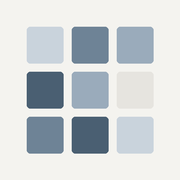
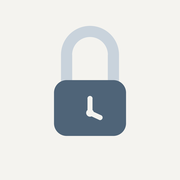
Add files via upload

diff --git a/index.html b/index.html
@@ -2,7 +2,7 @@
 <html lang="en">
 <head>
 <meta charset="utf-8">
-<meta name="viewport" content="width=device-width, initial-scale=1, viewport-fit=cover">
+<meta name="viewport" content="width=device-width, initial-scale=1, maximum-scale=1, user-scalable=no, viewport-fit=cover">
 <meta name="apple-mobile-web-app-capable" content="yes">
 <meta name="mobile-web-app-capable" content="yes">
 <meta name="apple-mobile-web-app-status-bar-style" content="default">
@@ -53,7 +53,8 @@
     color-scheme: dark;
   }
 
-  html, body { height: 100%; }
+  html, body { height: 100%; touch-action: manipulation; }
+  *, button { touch-action: manipulation; }
   body {
     background: var(--bg);
     color: var(--fg);
@@ -87,8 +88,13 @@
   }
   .clock.dim { color: var(--muted); }
   .clock.small { font-size: clamp(56px, 17vw, 76px); }
-  .breakdown { display: flex; gap: 16px; font-size: 13px; color: var(--muted); font-variant-numeric: tabular-nums; min-height: 1.3em; }
-  .breakdown span { display: inline-flex; align-items: center; gap: 6px; }
+  .breakdown { display: flex; flex-direction: column; align-items: center; gap: 6px; margin-top: 10px; font-size: 14px; color: var(--muted); font-variant-numeric: tabular-nums; min-height: 1.3em; }
+  .breakdown .line { display: grid; grid-template-columns: 8px 3.4em 4.6em 4.2em; align-items: center; column-gap: 10px; }
+  .breakdown .line .t { text-align: left; }
+  .breakdown .line .dur { color: var(--fg); text-align: right; }
+  .breakdown .line .cat { text-align: left; }
+  .breakdown .empty { font-size: 13px; }
+  .breakdown .more { font-size: 12px; }
 
   .dot { width: 8px; height: 8px; border-radius: 50%; display: inline-block; flex: none; }
   .dot.prosing { background: var(--prosing); }
@@ -121,18 +127,28 @@
   .act.primary { background: var(--accent); color: var(--on-accent); }
   .act.primary.prosing { background: var(--prosing); color: #fff; }
   .act.primary.working { background: var(--working); color: #fff; }
-  .act:active { opacity: .7; }
+  .act, .chipbtn, .round, .syncrow { transition: transform .14s ease, opacity .14s ease, background-color .2s ease, color .2s ease; }
+  .act:active, .chipbtn:active { transform: scale(.97); opacity: .85; }
+  .round:active { transform: scale(.92); }
+  .syncrow:active { opacity: .6; }
   .act:focus-visible, .round:focus-visible, .chipbtn:focus-visible, .seg button:focus-visible, .cell:focus-visible { outline: 2px solid var(--accent); outline-offset: 2px; }
 
   /* category / filter segmented control */
-  .seg { display: grid; grid-auto-flow: column; grid-auto-columns: 1fr; gap: 4px; background: var(--chip); border-radius: 12px; padding: 3px; }
+  .seg { position: relative; display: grid; grid-auto-flow: column; grid-auto-columns: 1fr; gap: 4px; background: var(--chip); border-radius: 11px; padding: 2.5px; }
+  .seg .thumb {
+    position: absolute; top: 2.5px; bottom: 2.5px; left: 2.5px;
+    border-radius: 8.5px; background: var(--card);
+    transition: transform .28s cubic-bezier(.3,.7,.2,1);
+  }
   .seg button {
     appearance: none; border: 0; cursor: pointer; background: transparent; color: var(--muted);
-    height: 34px; border-radius: 9px;
+    position: relative; z-index: 1;
+    height: 27px; border-radius: 8.5px;
+    transition: color .2s ease;
     font: 400 14px/1 var(--font-ui);
     display: inline-flex; align-items: center; justify-content: center; gap: 7px;
   }
-  .seg button[aria-pressed="true"] { background: var(--card); color: var(--fg); }
+  .seg button[aria-pressed="true"] { color: var(--fg); }
 
   .chips { display: grid; grid-template-columns: repeat(3, 1fr); gap: 8px; }
   .chipbtn {
@@ -169,19 +185,25 @@
   .graph { display: grid; grid-auto-flow: column; grid-template-rows: 14px repeat(7, 11px); grid-auto-columns: 11px; gap: 3px; width: max-content; padding-right: 1px; }
   .mlabel { font-size: 9px; color: var(--muted); white-space: nowrap; line-height: 14px; }
   .cell { width: 11px; height: 11px; border-radius: 2px; background: var(--cell0); border: 0; padding: 0; cursor: pointer; }
-  .cell.n1 { background: color-mix(in srgb, var(--accent) 30%, var(--cell0)); }
-  .cell.n2 { background: color-mix(in srgb, var(--accent) 55%, var(--cell0)); }
-  .cell.n3 { background: color-mix(in srgb, var(--accent) 80%, var(--cell0)); }
-  .cell.n4 { background: var(--accent); }
-  .cell.p1 { background: color-mix(in srgb, var(--prosing) 30%, var(--cell0)); }
-  .cell.p2 { background: color-mix(in srgb, var(--prosing) 55%, var(--cell0)); }
-  .cell.p3 { background: color-mix(in srgb, var(--prosing) 80%, var(--cell0)); }
-  .cell.p4 { background: var(--prosing); }
-  .cell.w1 { background: color-mix(in srgb, var(--working) 30%, var(--cell0)); }
-  .cell.w2 { background: color-mix(in srgb, var(--working) 55%, var(--cell0)); }
-  .cell.w3 { background: color-mix(in srgb, var(--working) 80%, var(--cell0)); }
-  .cell.w4 { background: var(--working); }
-  .cell.sel { outline: 1px solid var(--fg); outline-offset: 0; }
+  .cell.l1 { background: color-mix(in srgb, var(--fg) 22%, var(--cell0)); }
+  .cell.l2 { background: color-mix(in srgb, var(--fg) 45%, var(--cell0)); }
+  .cell.l3 { background: color-mix(in srgb, var(--fg) 68%, var(--cell0)); }
+  .cell.l4 { background: color-mix(in srgb, var(--fg) 90%, var(--cell0)); }
+  .cell { transition: transform .15s ease; }
+  .cell:active { transform: scale(.8); }
+  .cell.sel { outline: 1.5px solid var(--fg); outline-offset: 1px; }
+  .cell.pop { animation: pop .32s cubic-bezier(.3,.7,.2,1.4); }
+  @keyframes pop { 0% { transform: scale(.7); } 100% { transform: scale(1); } }
+  .card.enter > * { animation: rise .26s cubic-bezier(.2,.7,.2,1) both; }
+  .card.enter > *:nth-child(2) { animation-delay: .03s; }
+  .card.enter > *:nth-child(3) { animation-delay: .06s; }
+  .card.enter > *:nth-child(n+4) { animation-delay: .09s; }
+  @keyframes rise { from { opacity: 0; transform: translateY(6px); } to { opacity: 1; transform: none; } }
+  .fade { animation: fadein .22s ease both; }
+  @keyframes fadein { from { opacity: 0; } to { opacity: 1; } }
+  @media (prefers-reduced-motion: reduce) {
+    *, *::before, *::after { animation: none !important; transition: none !important; }
+  }
   .cell.empty { background: transparent; cursor: default; }
   .legend { display: flex; align-items: center; gap: 3px; font-size: 11px; color: var(--muted); padding-inline: 2px; }
   .legend .cell { cursor: default; }
@@ -363,8 +385,21 @@
     a.append(...btns);
     return a;
   }
-  function segmented(options, value, onPick) {
+  const segPrev = {};
+  function segmented(name, options, value, onPick) {
     const s = el('div', 'seg');
+    const n = options.length;
+    const idx = Math.max(0, options.findIndex((o) => o[0] === value));
+    const thumb = el('div', 'thumb');
+    thumb.style.width = `calc((100% - 5px - ${(n - 1) * 4}px) / ${n})`;
+    const at = (i) => `translateX(calc(${i * 100}% + ${i * 4}px))`;
+    const from = segPrev[name] ?? idx;
+    thumb.style.transition = 'none';
+    thumb.style.transform = at(from);
+    s.append(thumb);
+    if (from !== idx) requestAnimationFrame(() => requestAnimationFrame(() => { thumb.style.transition = ''; thumb.style.transform = at(idx); }));
+    else requestAnimationFrame(() => { thumb.style.transition = ''; });
+    segPrev[name] = idx;
     for (const [key, label, withDot] of options) {
       const b = el('button');
       b.type = 'button';
@@ -378,9 +413,18 @@
   }
 
   // ---------- render ----------
+  let lastKey = '';
   function render() {
     const card = $('card'), ck = $('clock'), dt = $('date');
     card.replaceChildren();
+    const key = `${view}|${panel}|${view === 'timer' ? phase : ''}`;
+    if (key !== lastKey) {
+      card.classList.remove('enter'); void card.offsetWidth; card.classList.add('enter');
+      if (lastKey && key.split('|')[0] !== lastKey.split('|')[0]) { const t = document.querySelector('.top'); t.classList.remove('fade'); void t.offsetWidth; t.classList.add('fade'); }
+      lastKey = key;
+    } else {
+      card.classList.remove('enter');
+    }
     $('btn-timer').setAttribute('aria-pressed', String(view === 'timer'));
     $('btn-cal').setAttribute('aria-pressed', String(view === 'cal'));
     $('btn-cal').disabled = phase === 'focusing' || phase === 'confirm';
@@ -398,7 +442,7 @@
       ck.textContent = clock(minutes * 60);
       card.append(
         head(`${minutes} minute session`, 'Leaving the page or locking the screen ends the session.'),
-        segmented([['prosing', 'Prosing', true], ['working', 'Working', true]], category,
+        segmented('category', [['prosing', 'Prosing', true], ['working', 'Working', true]], category,
           (k) => { category = k; save(K.cat, k); render(); }),
         actions(act('Duration', '', () => { phase = 'picking'; render(); }),
                 act('Start', `primary ${category}`, start)));
@@ -464,15 +508,14 @@
   }
   const lvl = (s) => s === 0 ? 0 : s < 1800 ? 1 : s < 3600 ? 2 : s < 7200 ? 3 : 4;
   function cellClass(d) {
-    const s = stat(d, filter).s;
-    const l = lvl(s);
-    if (!l) return '';
-    if (filter === 'prosing') return `p${l}`;
-    if (filter === 'working') return `w${l}`;
-    const c = rec(d).c || {};
-    const ps = (c.prosing || {}).s || 0, ws = (c.working || {}).s || 0;
-    if (!ps && !ws) return `n${l}`;            // older records without a category
-    return ps >= ws ? `p${l}` : `w${l}`;       // the day's main category
+    const l = lvl(stat(d, filter).s);
+    return l ? `l${l}` : '';
+  }
+  // the sessions behind one day, oldest first
+  function daySessions(d) {
+    const k = dayKey(d);
+    return sessions.filter((x) => dayKey(new Date(x.start)) === k && (filter === 'all' || x.category === filter))
+      .sort((a, b) => a.start - b.start);
   }
 
   function renderCal() {
@@ -490,11 +533,23 @@
     const bd = $('breakdown');
     bd.replaceChildren();
     bd.hidden = false;
-    const c = rec(d).c || {};
-    for (const k of Object.keys(CATS)) {
-      const sp = el('span'); sp.append(dot(k), document.createTextNode(`${CATS[k]} ${fmtDur((c[k] || {}).s || 0)}`));
-      bd.append(sp);
+    const list = daySessions(d);
+    const shown = list.slice(-5);
+    for (const x of shown) {
+      const line = el('div', 'line');
+      line.append(dot(x.category), el('span', 't', hhmm(x.start)), el('span', 'cat', CATS[x.category] || ''), el('span', 'dur', fmtDur(x.minutes * 60)));
+      bd.append(line);
     }
+    if (list.length > shown.length) bd.append(el('div', 'more', `+ ${list.length - shown.length} earlier`));
+    const sessSec = list.reduce((a, x) => a + x.minutes * 60, 0);
+    const older = st.s - sessSec;              // time saved before per-session records existed
+    if (older > 0) {
+      const line = el('div', 'line');
+      line.append(el('span'), el('span', 't', '—'), el('span', 'cat', 'Earlier'), el('span', 'dur', fmtDur(older)));
+      bd.append(line);
+    }
+    if (!list.length && older <= 0) bd.append(el('div', 'empty', 'No sessions'));
+    bd.classList.remove('fade'); void bd.offsetWidth; bd.classList.add('fade');
 
     const mon = mondayOf(today);
     let week = 0;
@@ -506,7 +561,7 @@
     }
 
     const card = $('card');
-    const seg = segmented([['all', 'All', false], ['prosing', 'Prosing', true], ['working', 'Working', true]], filter,
+    const seg = segmented('filter', [['all', 'All', false], ['prosing', 'Prosing', true], ['working', 'Working', true]], filter,
       (k) => { const o = document.querySelector('.graph-scroll'); const keep = o ? o.scrollLeft : 0; filter = k; render(); if (selected) { const n = document.querySelector('.graph-scroll'); if (n) n.scrollLeft = keep; } });
 
     const stats = el('div', 'stats');
@@ -539,6 +594,7 @@
             const keep = sc.scrollLeft;
             selected = day; render();
             const nsc = document.querySelector('.graph-scroll'); if (nsc) nsc.scrollLeft = keep;
+            const ns = document.querySelector('.cell.sel'); if (ns) ns.classList.add('pop');
           });
         }
         g.append(cell);
@@ -548,18 +604,9 @@
     wrap.append(wk, sc);
 
     const legend = el('div', 'legend');
-    if (filter === 'all') {
-      for (const k of Object.keys(CATS)) {
-        const it = el('span', 'item'); it.append(dot(k), document.createTextNode(CATS[k])); legend.append(it);
-      }
-      legend.append(el('span', '', 'Color shows the day’s main category'));
-    } else {
-      const p = filter === 'prosing' ? 'p' : 'w';
-      legend.append(el('span', '', 'Less'), el('span', 'gap'));
-      legend.append(el('span', 'cell'));
-      for (const l of [1, 2, 3, 4]) legend.append(el('span', `cell ${p}${l}`));
-      legend.append(el('span', 'gap'), el('span', '', 'More'));
-    }
+    legend.append(el('span', '', 'Less'), el('span', 'gap'), el('span', 'cell'));
+    for (const l of [1, 2, 3, 4]) legend.append(el('span', `cell l${l}`));
+    legend.append(el('span', 'gap'), el('span', '', 'More'));
 
     const syncRow = el('button', 'syncrow');
     syncRow.type = 'button';
@@ -699,6 +746,10 @@
     if (view === 'cal') selected = null;
     view = 'cal'; panel = null; render();
   });
+
+  // ---------- touch ----------
+  document.addEventListener('touchstart', () => {}, { passive: true });   // lets :active press states show on iOS
+  document.addEventListener('gesturestart', (e) => e.preventDefault()); // block pinch zoom
 
   // ---------- boot ----------
   // A session still saved at launch means the page was closed mid-session.
